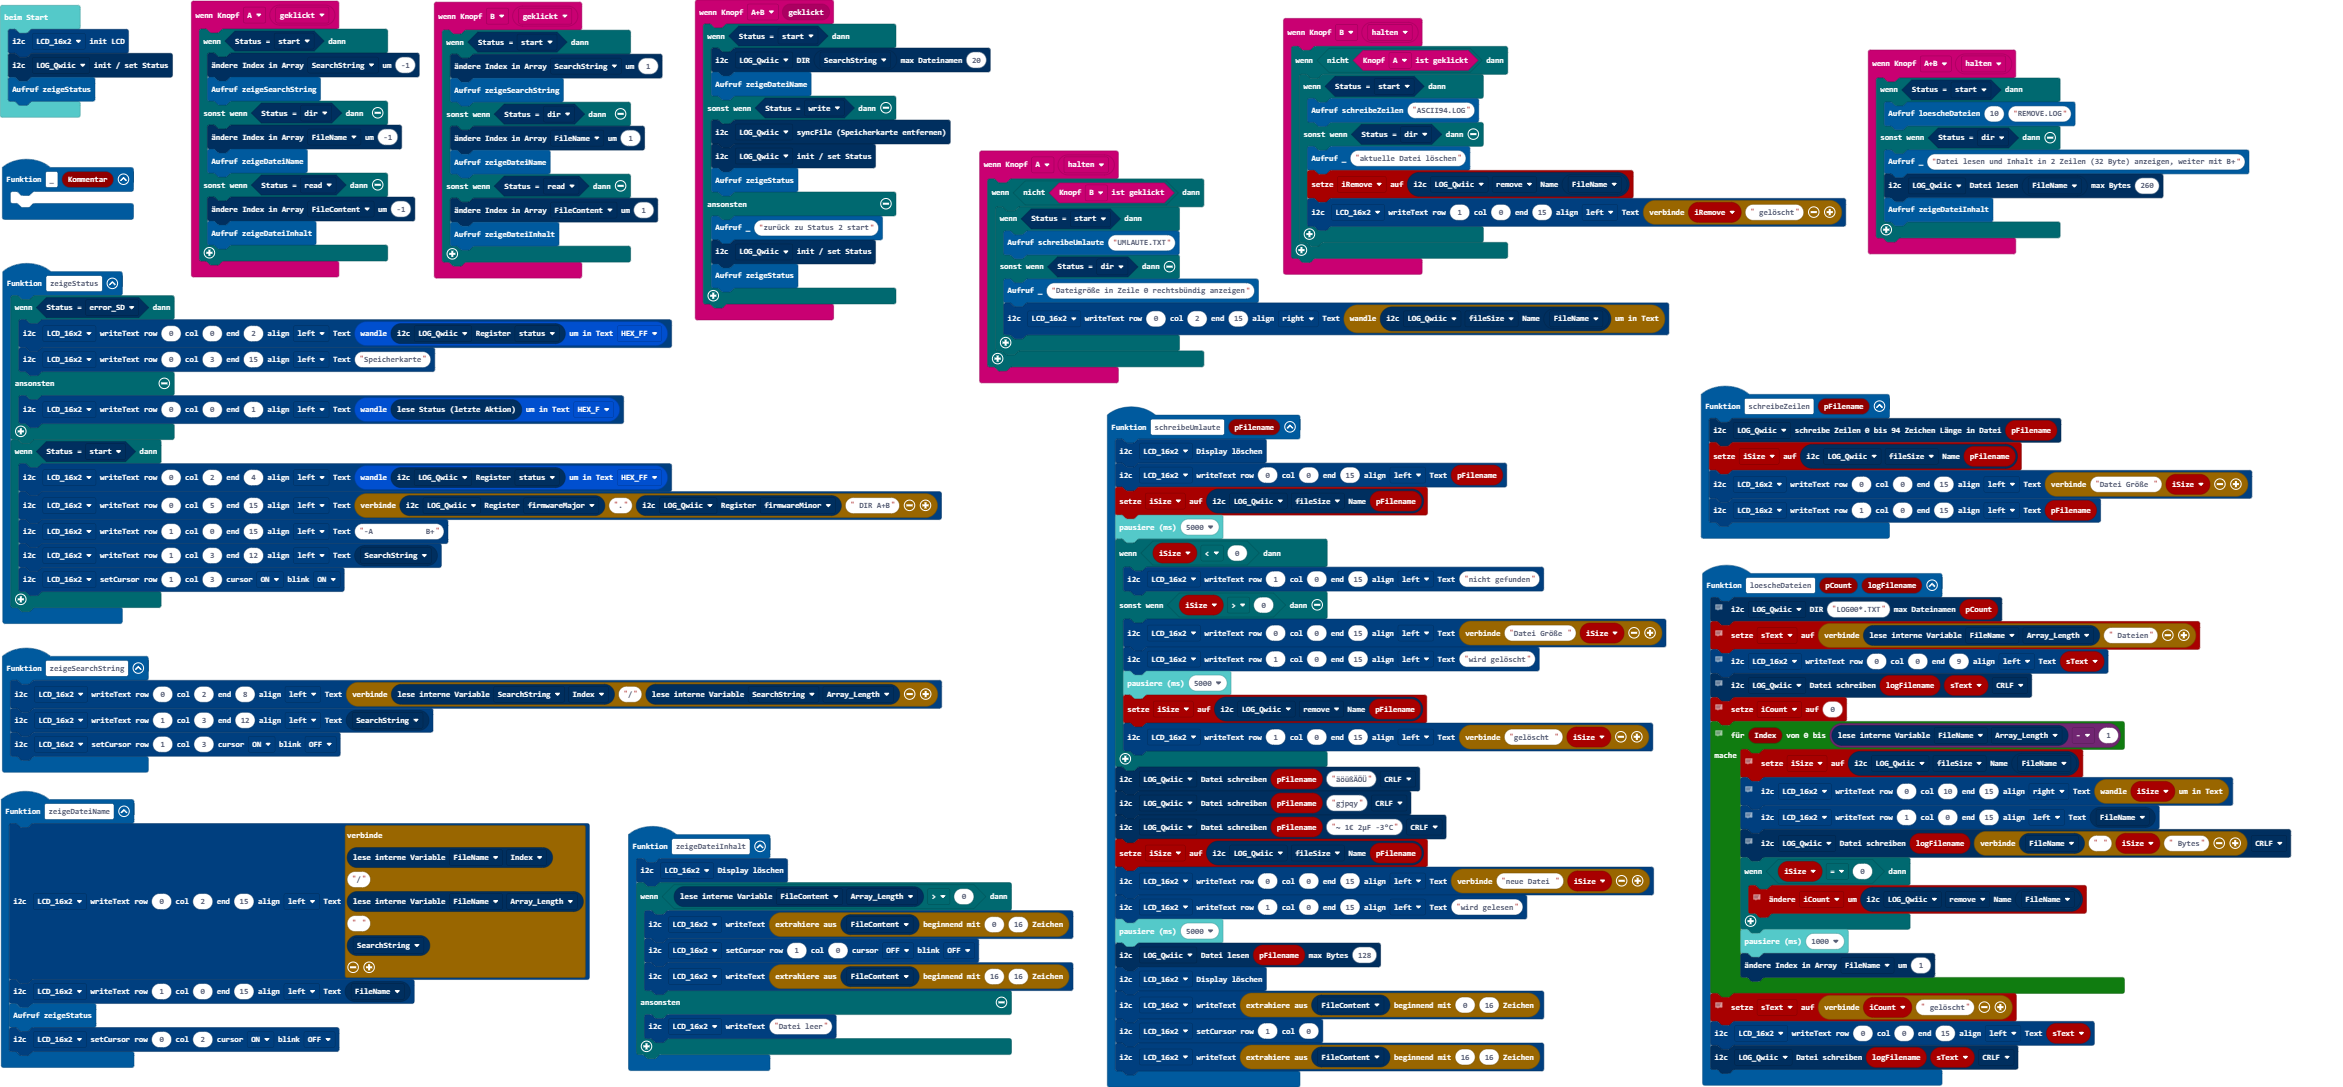
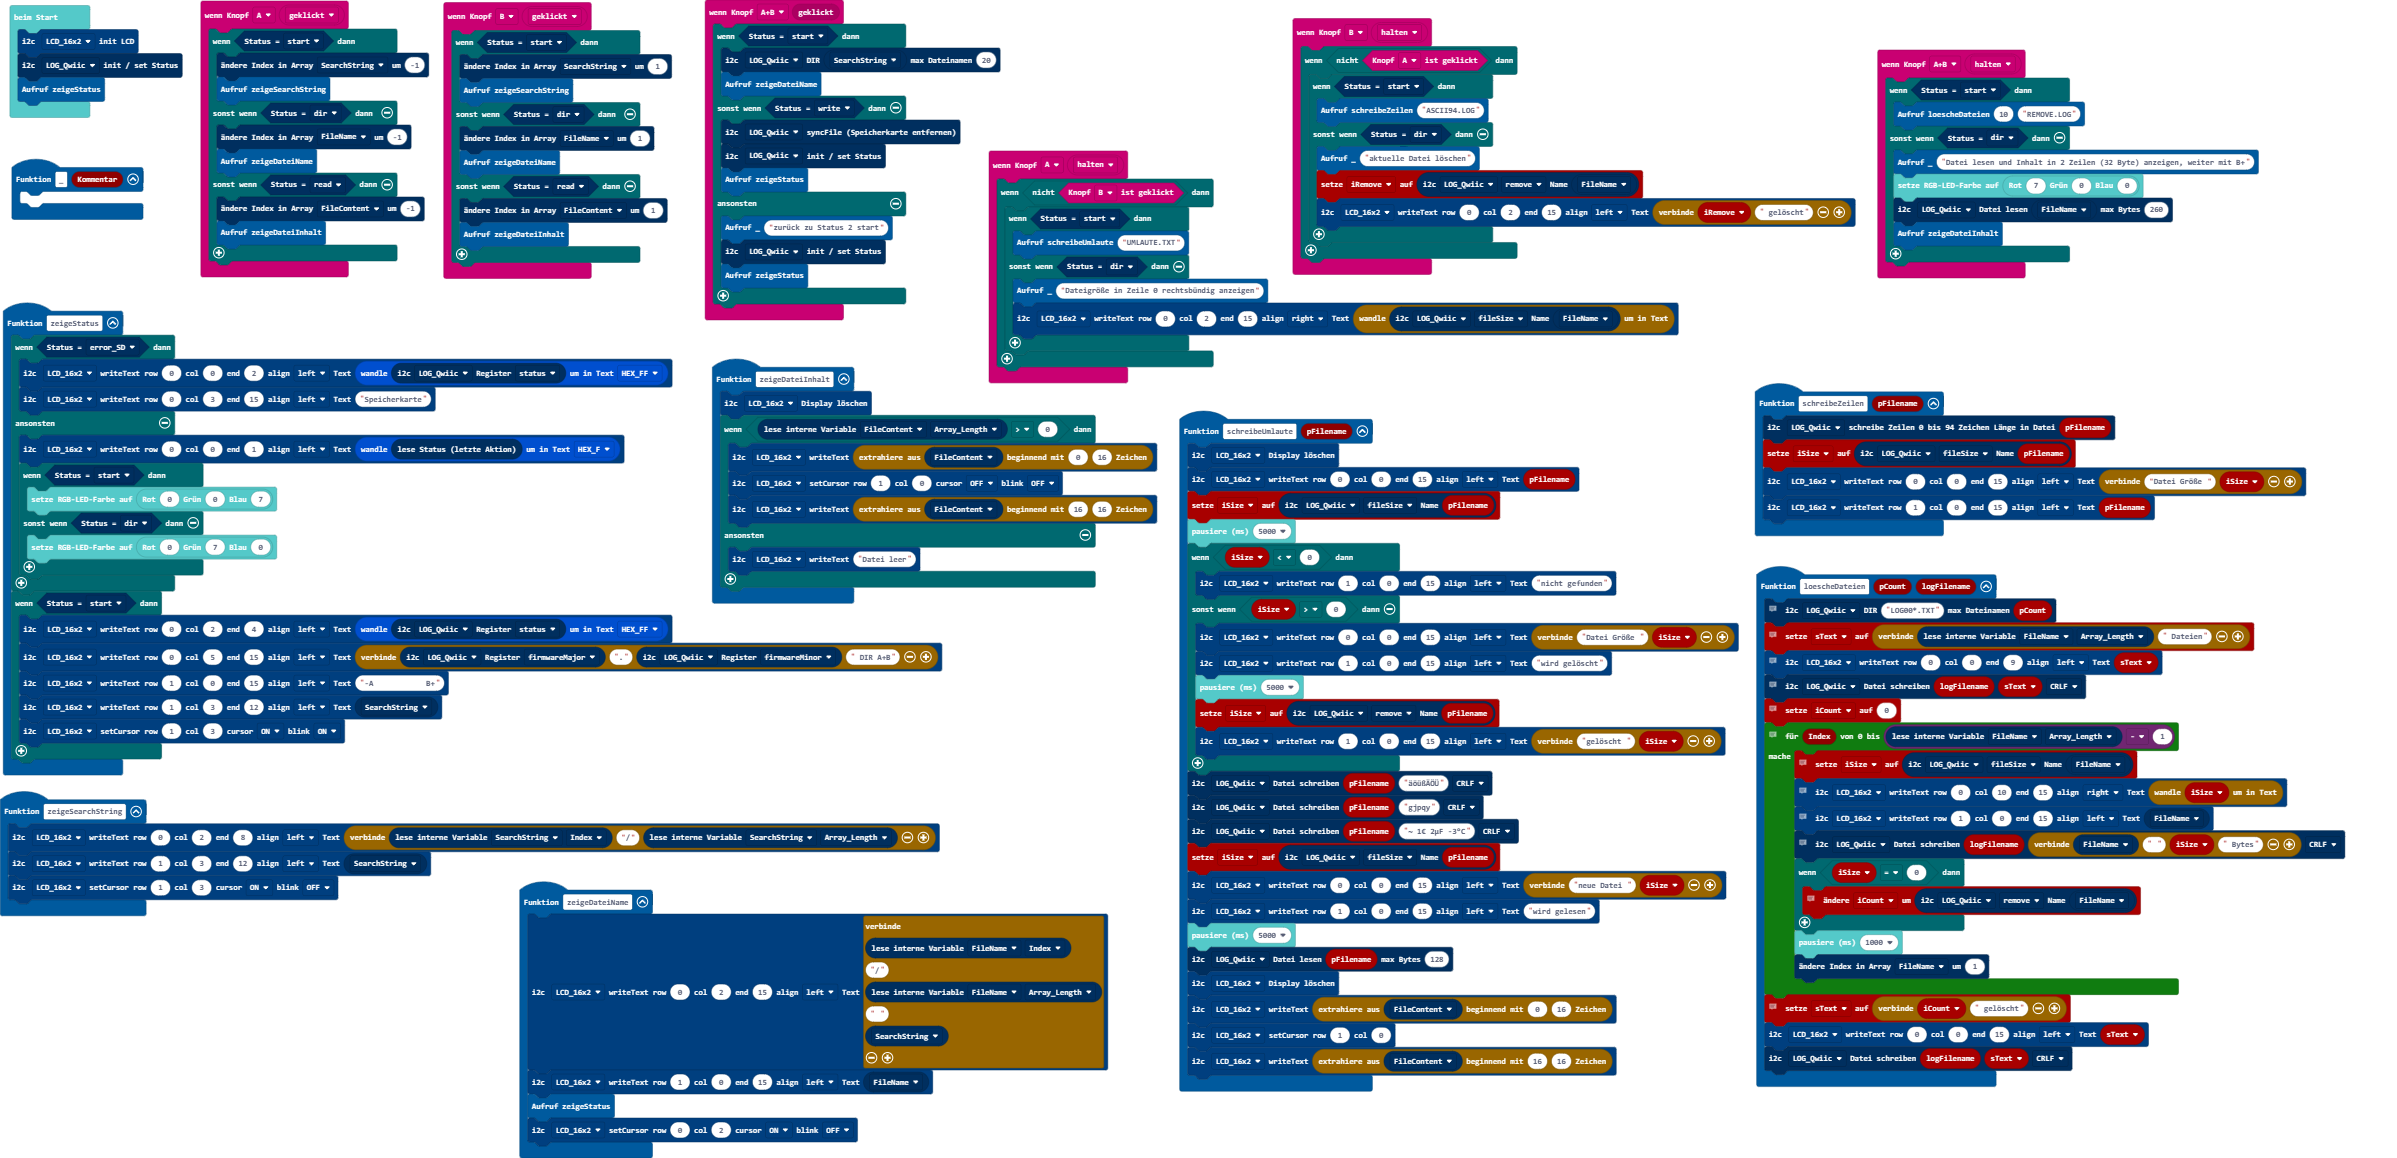
Aktualisiere main.blocks, main.ts

diff --git a/main.ts b/main.ts
@@ -84,6 +84,11 @@ function zeigeStatus () {
         lcd16x2rgb.writeText(lcd16x2rgb.eADDR_LCD.LCD_16x2, 0, 3, 15, lcd16x2rgb.eAlign.left, "Speicherkarte")
     } else {
         lcd16x2rgb.writeText(lcd16x2rgb.eADDR_LCD.LCD_16x2, 0, 0, 1, lcd16x2rgb.eAlign.left, bit.formatNumber(qwiicopenlog.getStatus(), bit.eLength.HEX_F))
+        if (qwiicopenlog.isStatus(qwiicopenlog.eStatus.start)) {
+            basic.setLedColor(basic.rgb(0, 0, 7))
+        } else if (qwiicopenlog.isStatus(qwiicopenlog.eStatus.dir)) {
+            basic.setLedColor(basic.rgb(0, 7, 0))
+        }
     }
     if (qwiicopenlog.isStatus(qwiicopenlog.eStatus.start)) {
         lcd16x2rgb.writeText(lcd16x2rgb.eADDR_LCD.LCD_16x2, 0, 2, 4, lcd16x2rgb.eAlign.left, bit.formatNumber(qwiicopenlog.readRegister(qwiicopenlog.eADDR.LOG_Qwiic, qwiicopenlog.eReadRegister.status), bit.eLength.HEX_FF))
@@ -125,7 +130,7 @@ input.onButtonEvent(Button.B, input.buttonEventValue(ButtonEvent.Hold), function
         } else if (qwiicopenlog.isStatus(qwiicopenlog.eStatus.dir)) {
             _("aktuelle Datei löschen")
             iRemove = qwiicopenlog.readInt32BE(qwiicopenlog.eADDR.LOG_Qwiic, qwiicopenlog.eWriteStringReadInt32BE.remove, qwiicopenlog.getString(qwiicopenlog.eArray.FileName))
-            lcd16x2rgb.writeText(lcd16x2rgb.eADDR_LCD.LCD_16x2, 1, 0, 15, lcd16x2rgb.eAlign.left, "" + iRemove + " gelöscht")
+            lcd16x2rgb.writeText(lcd16x2rgb.eADDR_LCD.LCD_16x2, 0, 2, 15, lcd16x2rgb.eAlign.left, "" + iRemove + " gelöscht")
         }
     }
 })
@@ -168,6 +173,7 @@ input.onButtonEvent(Button.AB, input.buttonEventValue(ButtonEvent.Hold), functio
         loescheDateien(10, "REMOVE.LOG")
     } else if (qwiicopenlog.isStatus(qwiicopenlog.eStatus.dir)) {
         _("Datei lesen und Inhalt in 2 Zeilen (32 Byte) anzeigen, weiter mit B+")
+        basic.setLedColor(basic.rgb(7, 0, 0))
         qwiicopenlog.readFile(qwiicopenlog.eADDR.LOG_Qwiic, qwiicopenlog.getString(qwiicopenlog.eArray.FileName), 260)
         zeigeDateiInhalt()
     }
